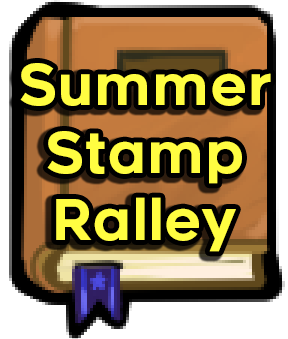
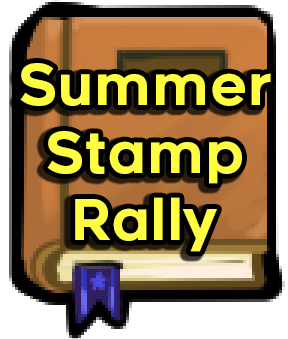
Many small things for event

Changed region(s): [[0.1562, 0.5605, 0.8438, 0.7965]]

diff --git a/src/pages/SummerStampRalley.jsx b/src/pages/SummerStampRalley.jsx
@@ -29,7 +29,7 @@ import {
   TooltipInfoButton,
 } from "../components/basic";
 import { BadgeAsync } from "../components/badge";
-import { PlayerSubmissionSelect, SubmissionEmbed } from "../components/goldberries";
+import { EmoteImage, PlayerSubmissionSelect, SubmissionEmbed } from "../components/goldberries";
 import {
   getQueryData,
   useDeleteStampSubmission,
@@ -48,7 +48,7 @@ export function PageSummerStampRalley() {
 
   return (
     <BasicContainerBox maxWidth="lg" sx={{ background: "#333333" }}>
-      <HeadTitle title="Summer Stamp Ralley" />
+      <HeadTitle title="Summer Stamp Rally" />
       <SummerStampRalleyPlayer playerId={playerId} />
     </BasicContainerBox>
   );
@@ -105,11 +105,14 @@ function EventDetailsHeader() {
 
   return (
     <Box>
-      <Typography variant="h5" gutterBottom>
-        Summer Stamp Rally
-      </Typography>
+      <Box
+        component="img"
+        src="/img/stamp/banner.png"
+        alt="Summer Stamp Rally"
+        sx={{ display: "block", width: "100%", maxWidth: 300, height: "auto", mb: 2, mx: "auto" }}
+      />
       <Typography variant="body2" color="text.secondary" paragraph>
-        <Trans t={t} i18nKey="description" components={{ announcementsLink: <StyledLink to="/news" /> }} />
+        <Trans t={t} i18nKey="description" components={{ announcementsLink: <StyledLink to="/news/57" /> }} />
       </Typography>
       <Typography variant="body2" color="text.secondary">
         {t("runtime")}
@@ -145,6 +148,8 @@ function StampEntry({ playerId, stampId, stampSubmission }) {
   const info = { ...STAMPS[stampId], ...(t(`stamps.${stampId}`, { returnObjects: true }) ?? {}) };
   const hasSubmission = !!stampSubmission;
   const submission = stampSubmission?.submission ?? null;
+  const accentColor = info?.accent;
+  const accentGlowFilter = getAccentGlowFilter(hasSubmission, accentColor);
   const border = stampId > 1 ? { borderTop: "3px solid", borderColor: "#c3c3c3", pt: 1.5 } : {};
 
   return (
@@ -184,7 +189,15 @@ function StampEntry({ playerId, stampId, stampSubmission }) {
               }}
             >
               {submission ? (
-                <SubmissionEmbed submission={submission} style={{ width: "100%" }} />
+                <StyledLink to={`/submission/${submission.id}`} sx={{ width: "100%" }}>
+                  <SubmissionEmbed
+                    submission={submission}
+                    style={{
+                      width: "100%",
+                      border: `4px solid ${accentColor ?? "#c3c3c3"}`,
+                    }}
+                  />
+                </StyledLink>
               ) : (
                 <Typography variant="body2" color="text.secondary">
                   {t("empty_submission")}
@@ -276,7 +289,7 @@ function StampImage({ stampId, hasSubmission, info }) {
   const { t } = useTranslation(undefined, { keyPrefix: "event.sss26" });
   const stampPath = hasSubmission ? `/img/stamp/stamp${stampId}.png` : `/img/stamp/no_stamp.png`;
   const alt = hasSubmission ? (info?.name ?? t("stamp_alt", { number: stampId + 1 })) : t("no_stamp_alt");
-  const glow = hasSubmission && info?.accent ? `0 0 0.75rem ${info.accent}` : "none";
+  const accentGlowFilter = getAccentGlowFilter(hasSubmission, info?.accent);
   return (
     <Box
       component="img"
@@ -287,10 +300,16 @@ function StampImage({ stampId, hasSubmission, info }) {
         height: STAMP_IMAGE_SIZE,
         objectFit: "contain",
         imageRendering: "pixelated",
-        filter: glow ? `drop-shadow(${glow}) drop-shadow(${glow})` : "none",
+        filter: accentGlowFilter,
       }}
     />
   );
+}
+
+function getAccentGlowFilter(hasSubmission, accent) {
+  if (!hasSubmission || !accent) return "none";
+  const glow = `0 0 0.75rem ${accent}`;
+  return `drop-shadow(${glow}) drop-shadow(${glow})`;
 }
 
 export function calculateStampData(submissions) {
@@ -317,10 +336,49 @@ const TIER_BADGES = {
 };
 const STAMPS_REQUIRED = 8;
 
+// Overachiever milestones for total tier above 40. Each 20-increment shows an emote instead of a badge,
+// plus an info icon with a (placeholder) funny message. Emotes are random existing ones for now.
+const OVERACHIEVER_MILESTONES = [
+  {
+    threshold: 60,
+    emote: "chart_with_awesome_trend.png",
+    info: "Can't give you a badge for this, but know you're the goat.",
+  },
+  { threshold: 80, emote: "3dgospel.png", info: "A real overachiever, are we?" },
+  { threshold: 100, emote: "catpog.png", info: "Triple digits!!! What the heeeell" },
+  {
+    threshold: 120,
+    emote: "corn3dcorncorn3dcorncorn.png",
+    info: "Absolutely insane commitment, GG!",
+  },
+  {
+    threshold: 140,
+    emote: "catwashingmachine.gif",
+    info: "A t14 every 9 days, alright buddy what the fuck?????",
+  },
+  {
+    threshold: 160,
+    emote: "entity.png",
+    info: "?????????????????????????????????????????????????????????????????????????????????????????????????????????????????????????????????????????????????????????",
+  },
+  {
+    threshold: 180,
+    emote: "clowneline.png",
+    info: "Almost certainly cheater.",
+  },
+  { threshold: 200, emote: "gluckyou.png", info: "Guaranteed cheater." },
+];
+
 function TotalTierProgress({ totalTier, averageTier, stampCount }) {
   const { t } = useTranslation(undefined, { keyPrefix: "event.sss26" });
   const max = Math.max(40, totalTier);
-  const lineThresholds = totalTier > 40 ? [20, 40] : [20];
+  // Overachiever milestones only appear once the bar extends far enough to reach them.
+  const overachieverMilestones = OVERACHIEVER_MILESTONES.filter((m) => m.threshold <= max);
+  const lineThresholds = [
+    20,
+    ...(totalTier > 40 ? [40] : []),
+    ...overachieverMilestones.map((m) => m.threshold),
+  ];
   const fillPercent = max > 0 ? (totalTier / max) * 100 : 0;
   const barHeight = 28;
   const hasEnoughStamps = stampCount >= STAMPS_REQUIRED;
@@ -330,6 +388,13 @@ function TotalTierProgress({ totalTier, averageTier, stampCount }) {
     { threshold: 10, pct: 0, type: "count" },
     { threshold: 20, pct: (20 / max) * 100, type: "boundary" },
     { threshold: 40, pct: (40 / max) * 100, type: "boundary" },
+    ...overachieverMilestones.map((m) => ({
+      threshold: m.threshold,
+      pct: (m.threshold / max) * 100,
+      type: "emote",
+      emote: m.emote,
+      info: m.info,
+    })),
   ];
 
   return (
@@ -409,6 +474,14 @@ function TotalTierProgress({ totalTier, averageTier, stampCount }) {
             infoText = t("stamp_count_badge_info");
             infoWarning = false;
             label = t("stamp_count_badge_label");
+          } else if (type === "emote") {
+            // Overachiever milestones: unlock purely based on total tier, always show the funny info text.
+            unlocked = totalTier >= threshold;
+            greyscale = !unlocked;
+            glowColor = unlocked ? "rgba(255, 255, 255," : null;
+            infoText = item.info;
+            infoWarning = false;
+            label = threshold;
           } else {
             const boundaryPassed = totalTier >= threshold;
             unlocked = boundaryPassed && hasEnoughStamps;
@@ -477,7 +550,11 @@ function TotalTierProgress({ totalTier, averageTier, stampCount }) {
                   },
                 }}
               >
-                <BadgeAsync id={TIER_BADGES[threshold]} inline={false} />
+                {type === "emote" ? (
+                  <EmoteImage emote={item.emote} alt={String(label)} height="32px" />
+                ) : (
+                  <BadgeAsync id={TIER_BADGES[threshold]} inline={false} />
+                )}
               </Box>
               <Stack direction="row" alignItems="center" gap={0.25}>
                 <Typography variant="caption" sx={{ fontWeight: "bold", lineHeight: 1 }}>

diff --git a/src/pages/Report.jsx b/src/pages/Report.jsx
@@ -286,6 +286,13 @@ function DetailsStage({ form, topicConfig, selectedTopic, selectedSubTopic, onBa
   const { t: t_ff } = useTranslation(undefined, { keyPrefix: "forms.feedback" });
 
   const topicName = t_r(`topics.${selectedTopic}.name`);
+  const isUrlRequired = topicConfig?.requiresUrl && selectedSubTopic !== "other";
+
+  useEffect(() => {
+    if (!isUrlRequired) {
+      form.clearErrors("url");
+    }
+  }, [isUrlRequired, form]);
 
   const { mutate: postReport, isLoading } = usePostReport((response) => {
     toast.success(t_r("feedback.success"));
@@ -340,16 +347,16 @@ function DetailsStage({ form, topicConfig, selectedTopic, selectedSubTopic, onBa
           <Controller
             name="url"
             control={form.control}
-            rules={topicConfig?.requiresUrl ? FormOptions.UrlRequired(t_ff) : undefined}
+            rules={isUrlRequired ? FormOptions.UrlRequired(t_ff) : undefined}
             render={({ field, fieldState }) => (
               <TextField
                 {...field}
-                label={topicConfig?.requiresUrl ? t("url_label") : t("url_label_optional")}
+                label={isUrlRequired ? t("url_label") : t("url_label_optional")}
                 fullWidth
                 error={!!fieldState.error}
                 helperText={
                   fieldState.error?.message ||
-                  (topicConfig?.requiresUrl ? t("url_required_help") : t("url_optional_help"))
+                  (isUrlRequired ? t("url_required_help") : t("url_optional_help"))
                 }
               />
             )}
@@ -359,10 +366,10 @@ function DetailsStage({ form, topicConfig, selectedTopic, selectedSubTopic, onBa
             name="message"
             control={form.control}
             rules={{
-              required: t("validation.message_required"),
+              required: t_r("validation.message_required"),
               minLength: {
                 value: 3,
-                message: t("validation.message_min_length"),
+                message: t_r("validation.message_min_length"),
               },
             }}
             render={({ field, fieldState }) => (

diff --git a/src/util/constants.js b/src/util/constants.js
@@ -444,13 +444,13 @@ export const DIFFICULTY_STACKS = [
 
 export const STAMPS = {
   0: { accent: "#5b2324" },
-  1: { accent: "#332f4f" },
+  1: { accent: "#484177" },
   2: { accent: "#a68d54" },
-  3: { accent: "#402143" },
-  4: { accent: "#21393d" },
+  3: { accent: "#6b3771" },
+  4: { accent: "#8cb8c0" },
   5: { accent: "#4f6e40" },
   6: { accent: "#b7c7db" },
-  7: { accent: "#2a1622" },
+  7: { accent: "#ac608d" },
   8: { accent: "#afc9af" },
-  9: { accent: "#1d2937" },
+  9: { accent: "#7299c7" },
 };

diff --git a/src/App.js b/src/App.js
@@ -289,7 +289,7 @@ const router = createBrowserRouter([
 
       { path: "rejected-challenges", element: <PageRejectedChallenges /> },
 
-      { path: "summer-stamp-ralley/:playerId", element: <PageSummerStampRalley /> },
+      { path: "event/summer-stamp-rally/:playerId", element: <PageSummerStampRalley /> },
 
       { path: "player/:id/:tab?", element: <PagePlayer /> },
       { path: "submission/:id", element: <PageSubmission /> },

diff --git a/src/components/SummerStampLink.jsx b/src/components/SummerStampLink.jsx
@@ -30,7 +30,7 @@ export function SummerStampLink({ playerId }) {
 
   return (
     <StyledLink
-      to={`/summer-stamp-ralley/${playerId}`}
+      to={`/event/summer-stamp-rally/${playerId}`}
       style={{ textDecoration: "none", display: "inline-block" }}
     >
       <Stack

diff --git a/src/components/map_data/viewer/entity_definitions.js b/src/components/map_data/viewer/entity_definitions.js
@@ -29,6 +29,7 @@ TO ADD:
 - multi-room strawberry, rust berry, dream berry, core berry, water berry
   - https://goldberries.net/map/3742/view
   - https://goldberries.net/map/4574/view
+- https://goldberries.net/map/7574/view -> NonPoppingStrawberry
 */
 
 //#region Renderers